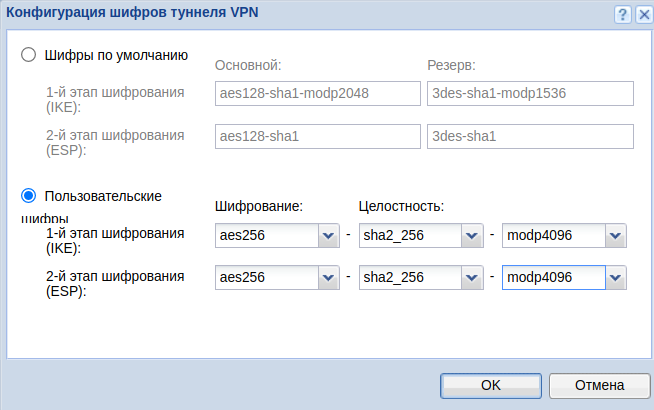
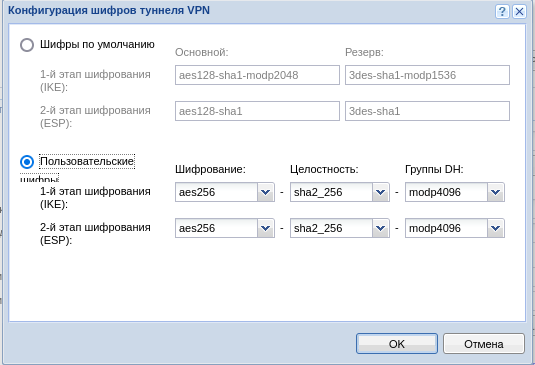
ICS-37550 УТМ. Дополнить ст-ю Подключение Kerio Control к Ideco NGFW по IPsec

Changed region(s): [[0.0, 0.0, 1.0, 1.0], [0.0598, 0.1808, 0.2991, 0.3918]]

diff --git a/settings/services/ipsec/site-to-site/ipsec-connection-kerio-control-to-utm.md b/settings/services/ipsec/site-to-site/ipsec-connection-kerio-control-to-utm.md
@@ -1,73 +1,146 @@
----
-description: >-
-  По шагам статьи можно объединить сети Kerio Control и Ideco NGFW по IPsec
-  с использованием PSK.
----
-
-# Подключение Kerio Control к Ideco NGFW по IPsec
+# Подключение Kerio Control и Ideco NGFW по IPsec
 
 {% hint style="info" %}
 Объединяемые локальные сети не должны пересекаться!
 {% endhint %}
 
-## Настройка Ideco NGFW
+<details>
 
-1\. В веб-интерфейсе Ideco NGFW откройте вкладку **Сервисы -> IPsec -> Входящие подключения**;
-
-2\. Добавьте новое подключение и заполните поля:
-
-* **Название подключения** - укажите произвольное имя для подключения. Значение не должно быть длиннее 42 символов;
-* **Зона** - укажите зону для добавления IPSec подключения;
-* **Тип аутентификации** - выберите тип PSK;
-* **PSK** - укажите PSK-ключ, который будет использоваться для подключения;
-* **Идентификатор NGFW** - укажите ключ, который будет использоваться для идентификации подключения на Kerio;
-* **Домашние локальные сети** - выберите локальную сеть Ideco NGFW, которая будет видна из подсети Kerio Control;
-* **Удаленные локальные сети** - укажите локальную сеть Kerio Control, которая будет видна из подсети Ideco NGFW;
-* **IP-адрес интерфейса туннеля** - укажите IP-адрес интерфейса туннеля при динамической маршрутизации BGP.
-
-3\. Сохраните созданное подключение, затем активируйте подключение, нажав на иконку включения в столбце **Управление**.
-
-4\. Настройка завершена, теперь переходим к настройке Kerio Control.
-
-## Настройка Kerio Control
+<summary>Предварительная настройка Kerio Control</summary>
 
 1\. По умолчанию Kerio Control использует IKEv1 для создания подключений к сторонним устройствам. Включить IKEv2 можно через консоль, выполнив действия:
 
-* Подключиться к Kerio Control по SSH;
-* Перейти в папку `/var/winroute`;
-* Открыть на редактирование файл `winroute.cfg`;
-* В нем найти раздел, начинающийся с текста `<table name="Firewall">`;
-* В этом разделе найти строку `<variable name="IKEVersion">ikev1</variable>` и изменить в ней `ikev1` на `ikev2`;
-* После этого требуется перезагрузить сервер и убедиться, что изменения в настройках сохранились.
+  * Подключиться к Kerio Control по SSH;
+  * Перейти в папку `/var/winroute`;
+  * Открыть на редактирование файл `winroute.cfg`;
+  * В нем найти раздел, начинающийся с текста `<table name="Firewall">`;
+  * В этом разделе найти строку `<variable name="IKEVersion">ikev1</variable>` и изменить в ней `ikev1` на `ikev2`;
+  * После этого требуется перезагрузить сервер и убедиться, что изменения в настройках сохранились.
 
 2\. В разделе **Правила трафика** разрешите трафик VPN-служб.
 
-3\. Далее перейдите в раздел **Интерфейсы** и нажмите **Добавить**. В раскрывшемся списке выберите **VPN-туннель...**.
+</details>
 
-4\. Откроется окно создания подключения. В нем выберите:
+## Подключение от Ideco NGFW к Kerio Control
 
-* **Тип** - IPsec;
-* **Имя** - произвольное;
-* **Включить данный туннель**;
-* Тип **Активное** и в поле под ним прописать IP-адрес внешнего интерфейса Ideco NGFW, который будет использоваться для подключения;
-* **Предопределенный ключ** и ввести PSK-ключ, который будет использоваться для подключения;
-* **Локальный ИД** - укажите ключ, который был задан в поле **Идентификатор NGFW** (п.2 [**Настройка Ideco NGFW**](ipsec-connection-kerio-control-to-utm.md));
-* **Отдаленный ИД** - укажите IP-адрес внешнего интерфейса Ideco NGFW;
-* Под заданием шифров нажать на **Изменить** и задать шифры, как на скриншоте:
+<details>
 
-![](/.gitbook/assets/ipsec-connection-kerio-control-to-utm1.png)
+<summary>Настройка исходящего подключения на Ideco NGFW</summary>
 
-Пример итоговых настроек на скриншоте ниже:
+1\. В веб-интерфейсе Ideco NGFW откройте вкладку **Сервисы -> IPsec -> Исходящие подключения**.
 
-![](/.gitbook/assets/ipsec-connection-kerio-control-to-utm2.png)
+2\. Добавьте новое подключение и заполните поля:
 
-5\. Перейдите в раздел **Удаленные сети**, нажмите на кнопку **Добавить** и введите сведения о локальной сети Ideco NGFW, которая будет видна из подсети Kerio Control.
+  * **Название подключения** - укажите произвольное имя для подключения. Значение не должно быть длиннее 42 символов;
+  * **Зона** - укажите зону для добавления IPSec подключения;
+  * **Адрес удаленного устройства** - укажите внешний IP-адрес Kerio Control;
+  * **Тип аутентификации** - выберите тип PSK;
+  * **PSK-ключ** - укажите PSK-ключ, который будет использоваться для подключения;
+  * **Тип идентификатора** - выберите auto;
+  * **NGFW идентификатор** - укажите IP-адрес внешнего интерфейса Ideco NGFW, который будет использоваться для подключения;
+  * **Домашние локальные сети** - выберите локальную сеть Ideco NGFW, которая будет видна из подсети Kerio Control;
+  * **Удаленные локальные сети** - укажите локальную сеть Kerio Control, которая будет видна из подсети Ideco NGFW;
+  * **IP-адрес интерфейса туннеля** - укажите IP-адрес интерфейса туннеля. Поле необязательное, заполняется при настройке BGP-соседства для динамической маршрутизации:
 
-6\. В разделе **Локальные сети** нажмите на кнопку **Использовать автоматически определенные локальные сети** или настройте сети, которые будут видны из подсети Ideco NGFW, вручную.
+  ![](/.gitbook/assets/ipsec.png)
 
-7\. После добавление нового интерфейса нажмите на кнопку **Применить**. Подключение успешно установится, информация об этом отобразится в таблице:
+3\. Сохраните созданное подключение, затем активируйте подключение, нажав на иконку включения в столбце **Управление**.
 
-![](/.gitbook/assets/ipsec-connection-kerio-control-to-utm3.png)
+Настройка завершена, теперь переходим к настройке Kerio Control.
+
+</details>
+
+<details>
+
+<summary>Настройка входящего подключения на Kerio Control</summary> 
+
+1\. Перейдите в раздел **Интерфейсы** и нажмите **Добавить**. В раскрывшемся списке выберите **VPN-туннель...**.
+
+2\. Откроется окно создания подключения. В нем выберите:
+
+  * **Тип** - IPsec;
+  * **Имя** - произвольное;
+  * **Включить данный туннель**;
+  * Тип **Пассивное**;
+  * **Предопределенный ключ** - введите PSK-ключ, который был указан при создании подключения на Ideco NGFW;
+  * **Локальный ИД** - укажите IP-адрес внешнего интерфейса Kerio, который будет использоваться для подключения;
+  * **Отдаленный ИД** - укажите IP-адрес внешнего интерфейса Ideco NGFW;
+  * Под заданием шифров нажмите на **Изменить** и задайте шифры, как на скриншоте:
+
+  ![](/.gitbook/assets/ipsec-connection-kerio-control-to-utm1.png)
+
+Пример итоговых настроек:
+
+  ![](/.gitbook/assets/ipsec-connection-kerio-control-to-utm.png)
+
+3\. Перейдите в раздел **Удаленные сети**, нажмите на кнопку **Добавить** и введите сведения о локальной сети Ideco NGFW, которая будет видна из подсети Kerio Control.
+
+4\. В разделе **Локальные сети** настройте сети, которые будут видны из подсети Ideco NGFW, вручную.
+
+5\. После добавление нового интерфейса нажмите на кнопку **Применить**. Подключение успешно установится, информация об этом отобразится в таблице:
+
+  ![](/.gitbook/assets/ipsec-connection-kerio-control-to-utm2.png)
+
+</details>
+
+## Подключение от Kerio Control к Ideco NGFW
+
+<details>
+
+<summary>Настройка исходящего подключения на Kerio Control</summary> 
+
+1\. Перейдите в раздел **Интерфейсы** и нажмите **Добавить**. В раскрывшемся списке выберите **VPN-туннель...**.
+
+2\. Откроется окно создания подключения. В нем выберите:
+
+  * **Тип** - IPsec;
+  * **Имя** - произвольное;
+  * **Включить данный туннель**;
+  * Выберите тип **Активное** и в поле под ним пропишите IP-адрес внешнего интерфейса Ideco NGFW, который будет использоваться для подключения;
+  * **Предопределенный ключ** - введите PSK-ключ, который будет использоваться для подключения;
+  * **Локальный ИД** - укажите ключ, который будет задан в поле **Идентификатор NGFW** при настройке входящего подключения на Ideco NGFW, или IP-адрес внешнего интерфейса Kerio, который будет использоваться для подключения. **Предпочтительное значение - имя хоста Kerio**;
+  * **Отдаленный ИД** - укажите IP-адрес внешнего интерфейса Ideco NGFW, который будет использоваться для подключения;
+  * Под заданием шифров нажмите на **Изменить** и задайте шифры, как на скриншоте:
+
+  ![](/.gitbook/assets/ipsec-connection-kerio-control-to-utm1.png)
+
+Пример итоговых настроек:
+
+  ![](/.gitbook/assets/ipsec-connection-kerio-control-to-utm3.png)
+
+3\. Перейдите в раздел **Удаленные сети**, нажмите на кнопку **Добавить** и введите сведения о локальной сети Ideco NGFW, которая будет видна из подсети Kerio Control.
+
+4\. В разделе **Локальные сети** настройте сети, которые будут видны из подсети Ideco NGFW, вручную.
+
+5\. После добавление нового интерфейса нажмите на кнопку **Применить**. Подключение успешно установится, информация об этом отобразится в таблице.
+
+</details>
+
+<details>
+
+<summary>Настройка входящего подключения на Ideco NGFW</summary>
+
+1\. В веб-интерфейсе Ideco NGFW откройте вкладку **Сервисы -> IPsec -> Входящие подключения**.
+
+2\. Добавьте новое подключение и заполните поля:
+
+  * **Название подключения** - укажите произвольное имя для подключения. Значение не должно быть длиннее 42 символов;
+  * **Зона** - укажите зону для добавления IPSec подключения;
+  * **Тип аутентификации** - выберите тип PSK;
+  * **PSK-ключ** - введите PSK-ключ, который был указан при создании подключения в Kerio;
+  * **Тип идентификатора** - выберите auto;
+  * **Идентификатор удаленной стороны** - укажите **Локальный ИД**, указанный при настройке исходящего подключения на Kerio;
+  * **Домашние локальные сети** - выберите локальную сеть Ideco NGFW, которая будет видна из подсети Kerio Control;
+  * **Удаленные локальные сети** - укажите локальную сеть Kerio Control, которая будет видна из подсети Ideco NGFW;
+  * **IP-адрес интерфейса туннеля** - укажите IP-адрес интерфейса туннеля. Поле необязательное, заполняется при настройке BGP-соседства для динамической маршрутизации:
+
+  ![](/.gitbook/assets/ipsec1.png)
+
+3\. Сохраните созданное подключение, затем активируйте подключение, нажав на иконку включения в столбце **Управление**.
+
+Настройка завершена, теперь переходим к настройке Kerio Control.
+
+</details>
 
 {% hint style="info" %}
 При возникновении проблем обратите внимание на настройки файрвола Kerio Control.

diff --git a/recipes/popular-recipes/transferring-data-to-another-server.md b/recipes/popular-recipes/transferring-data-to-another-server.md
@@ -57,7 +57,7 @@
 3\. Привяжите энтерпрайз-лицензию к новому серверу, нажав на ![](/.gitbook/assets/icon-lk-licens.png).
 
 {% hint style="warning" %}
-При подключении к Ideco Center восстановленного из бекапа клона сервера он не появится в таблице серверов ЦК. Возникает конфликт с донором резервной копии из-за одинакового claster_id. Сервер-клон подменяет собой уже подключенный Ideco NGFW:
+При подключении к Ideco Center восстановленного из бекапа клона сервера он не появится в таблице серверов Ideco Center. Возникает конфликт с донором резервной копии из-за одинакового claster_id. Сервер-клон подменяет собой уже подключенный Ideco NGFW:
 {% endhint %}
 
 ![](/.gitbook/assets/transferring-data-to-another-server.gif)

diff --git a/SUMMARY.md b/SUMMARY.md
@@ -110,7 +110,7 @@
     * [Подключение Ideco NGFW и Mikrotik](settings/services/ipsec/site-to-site/site-to-site-ideco-mikrotik.md)
     * [Подключение Cisco IOS к Ideco NGFW по IPsec](settings/services/ipsec/site-to-site/connect-utm-to-cisco-via-ipsec.md)
     * [Подключение pfSense к Ideco NGFW по IPsec](settings/services/ipsec/site-to-site/ipsec-connection-pfsense-to-utm.md)
-    * [Подключение Kerio Control к Ideco NGFW по IPsec](settings/services/ipsec/site-to-site/ipsec-connection-kerio-control-to-utm.md)
+    * [Подключение Kerio Control и Ideco NGFW по IPsec](settings/services/ipsec/site-to-site/ipsec-connection-kerio-control-to-utm.md)
     * [Подключение Keenetic по SSTP или IPsec](settings/services/ipsec/site-to-site/keenetic-connection.md)
   * [Сертификаты](settings/services/certificates/README.md)
     * [Загрузка SSL-сертификата на сервер](settings/services/certificates/upload-ssl-certificate-to-server.md)
